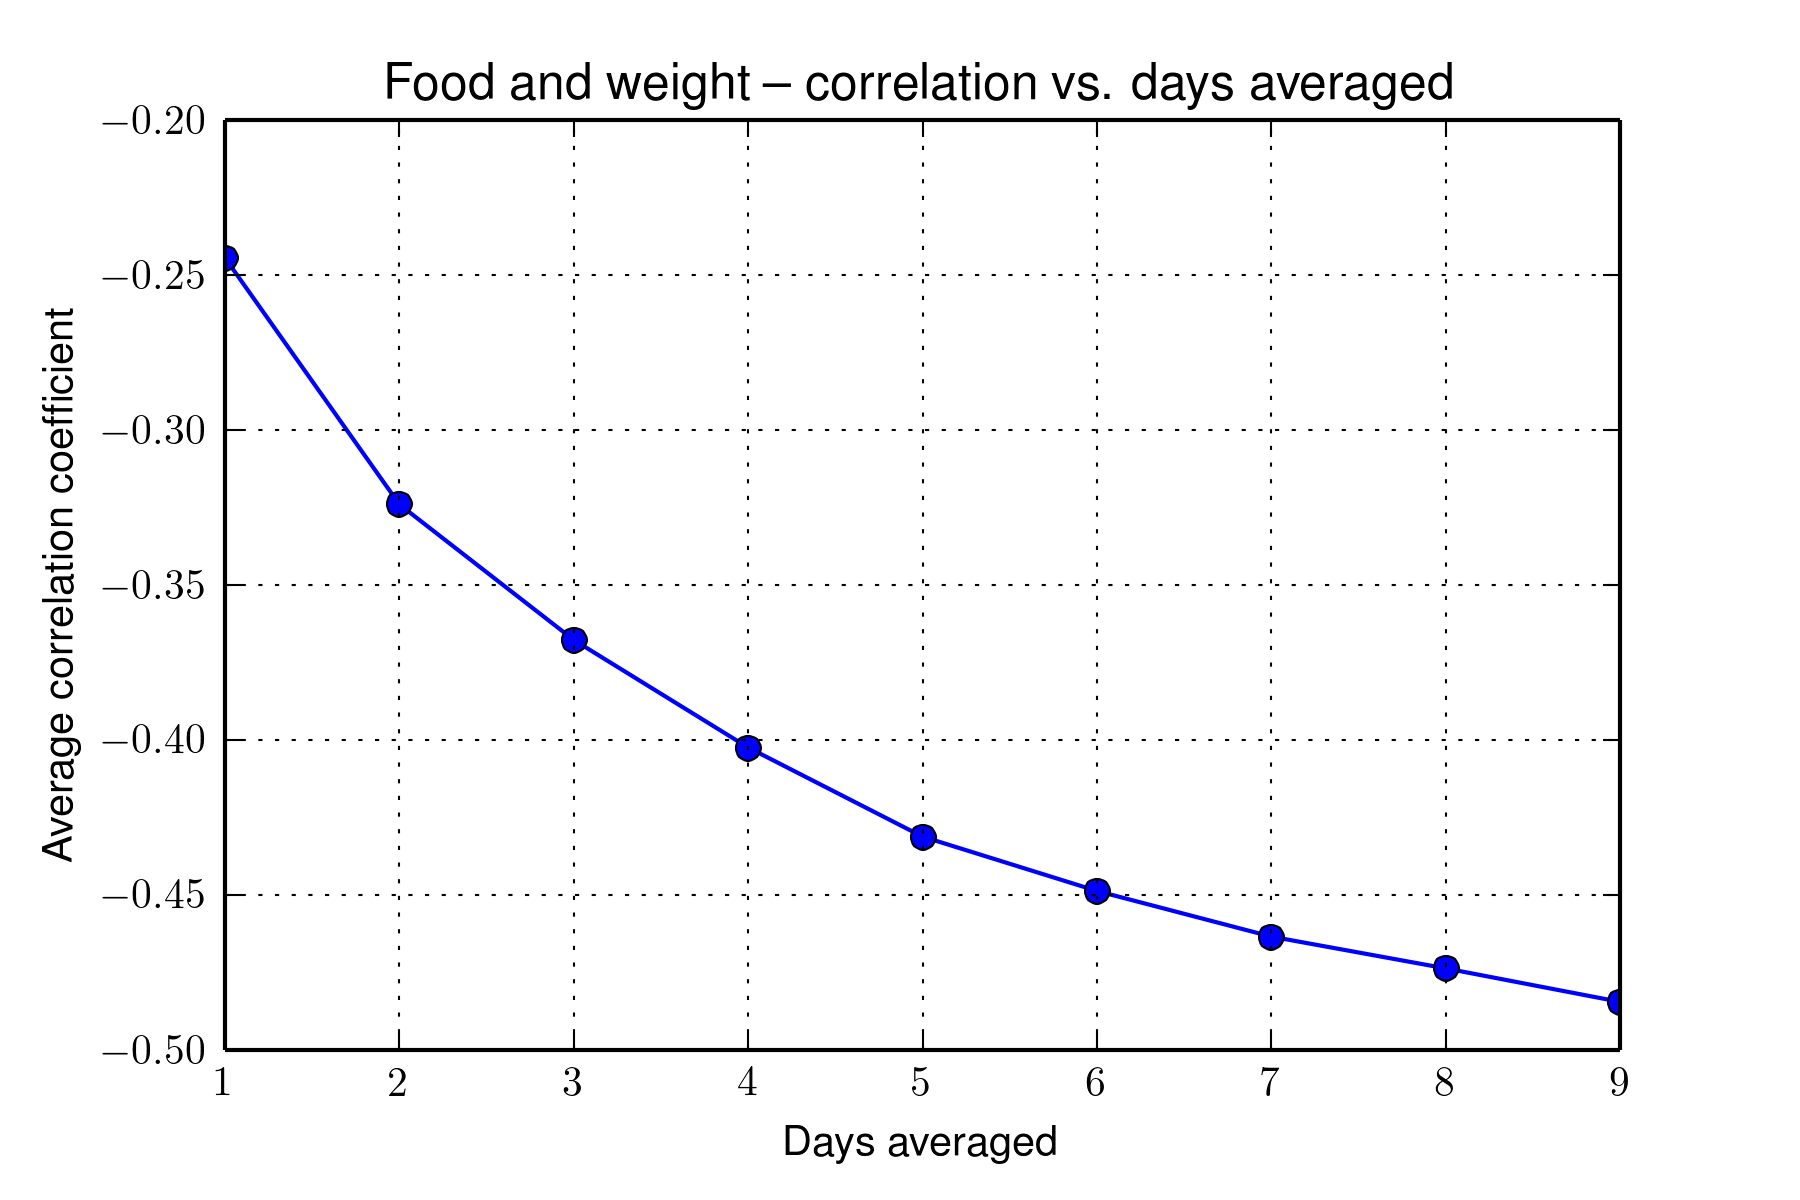
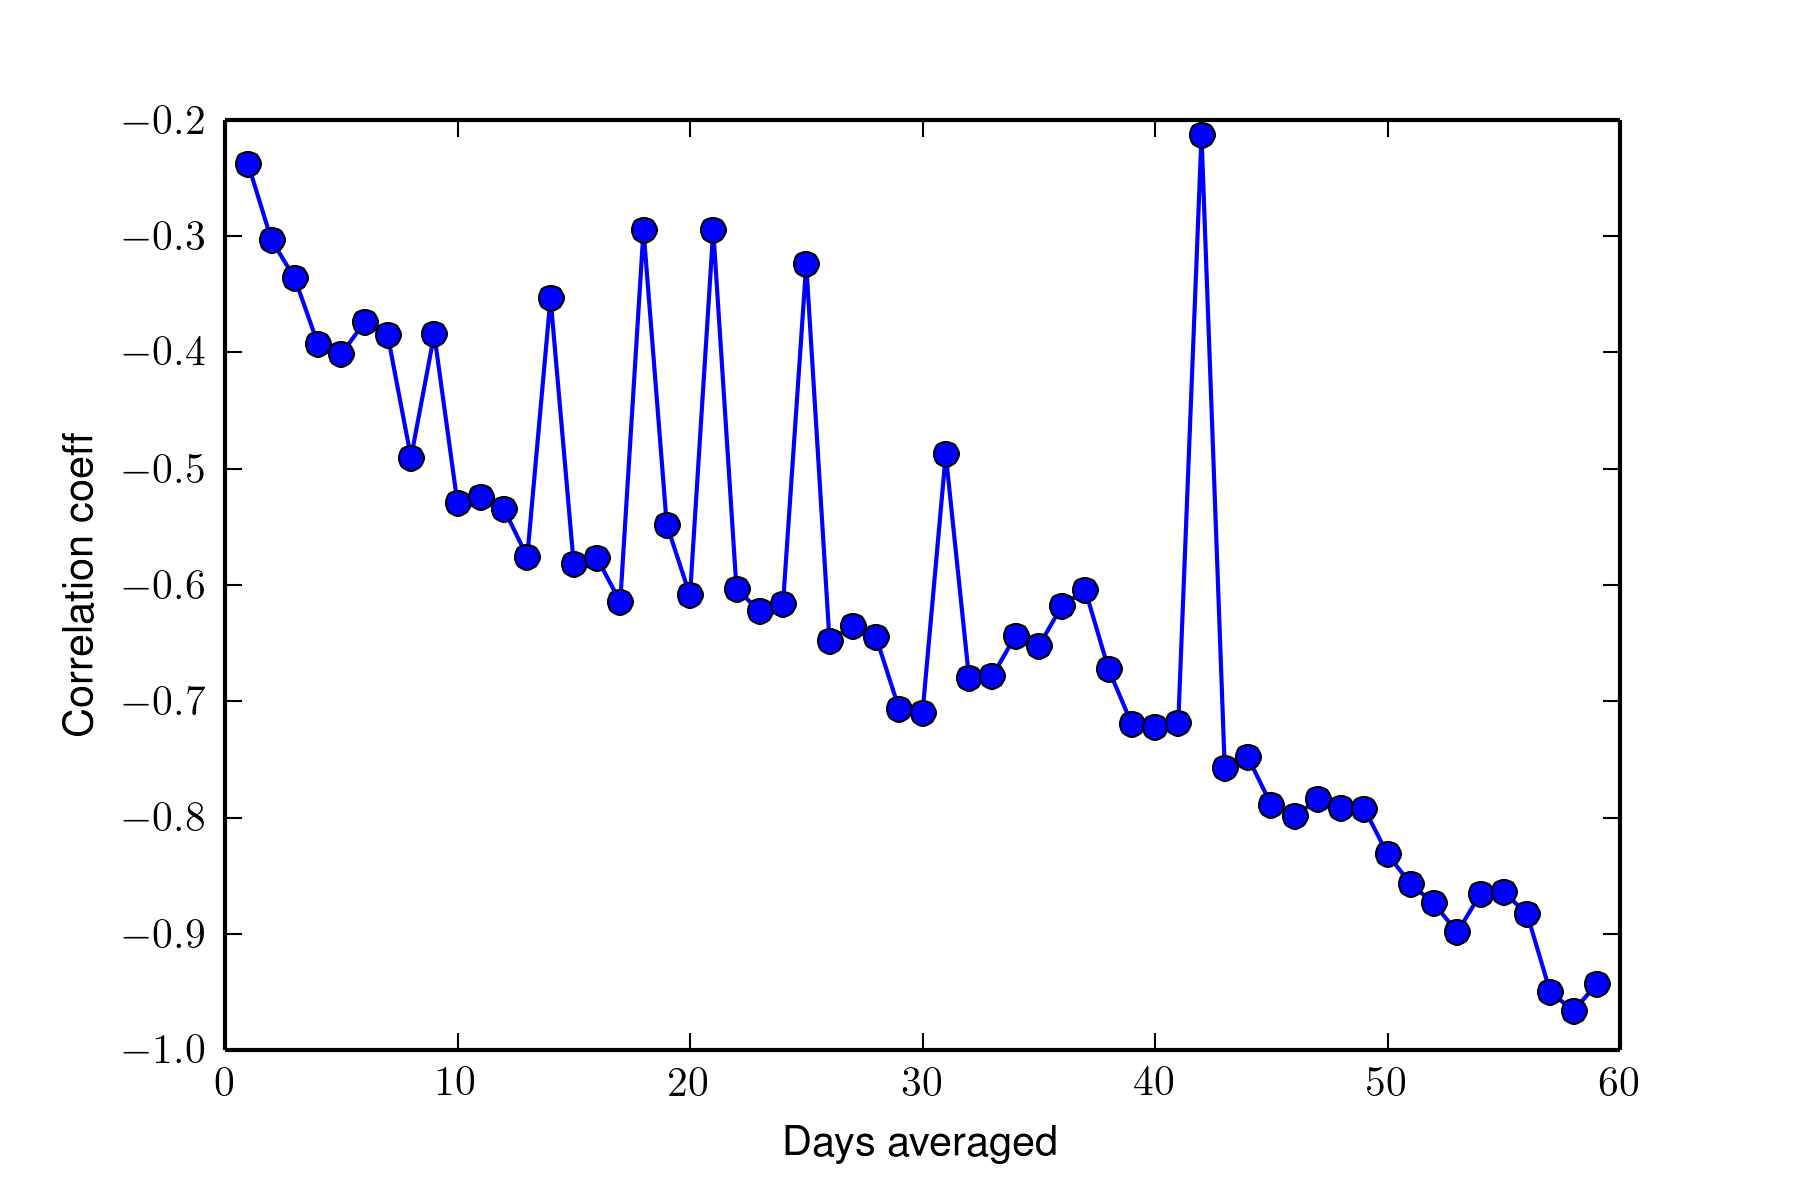
Drawnow

diff --git a/patrick_weight/pat.py b/patrick_weight/pat.py
@@ -1,13 +1,22 @@
 from __future__ import division
 from pylab import *
 from scipy.io import loadmat
+import vimpdb as pdb
 
 def find_rho(x, y):
     rho = cov(x, y) / (std(x) * std(y))
     return rho[0,1]
 def runningMeanFast(x, N):
+    # running means
     y = np.convolve(x, np.ones((N,))/N)[(N-1):]
     y = y[:len(y)-N]
+
+    # discrete means
+    y = zeros(10*len(x)/N) * nan
+    for i in arange(0, x.shape[0]/N):
+        y[i] = mean(x[i*N:i*N+N])
+    y = y[~isnan(y)]
+
     return y
 
 # load the data
@@ -27,7 +36,7 @@ mean_rho = []
 weight_unavg = weight.copy()
 
 # find it over a range of averages
-for MEAN_N in arange(1,14):
+for MEAN_N in arange(1,60):
     # averaging weight and food based on MEAN_N
     weight = runningMeanFast(weight_unavg, MEAN_N)
 
@@ -48,15 +57,8 @@ for MEAN_N in arange(1,14):
     mean_rho += [mean(correlation)]
 
 figure()
-plot(weight)
-plot(weight_unavg)
-show()
-
-figure()
-plot(food[0])
-plot(food_unavg[0])
-show()
-
-figure()
 plot(days_avg, mean_rho, marker='o')
+ylabel('Correlation coeff')
+xlabel('Days averaged')
+savefig('food_and_weight.png', dpi=300)
 show()

diff --git a/drawnow/drawnow.py b/drawnow/drawnow.py
@@ -1,0 +1,47 @@
+
+
+from __future__ import division
+from pylab import *
+import time
+
+def drawnow(draw_fig, wait_secs=1):
+    """
+        draw_fig: (callable, no args by use of python's global scope) your
+        function to draw the figure. it should include the figure() call --
+        just like you'd normally do it.  However, you must leave out the
+        `show()`.
+
+        wait_secs : optional, how many seconds to wait. note that if this is 0
+        and your computation is fast, you don't really see the plot update.
+
+        does not work in ipy-qt. only works in the ipython shell.
+    """
+    close()
+    draw_fig()
+    draw()
+    time.sleep(wait_secs)
+
+def drawnow_init():
+    ion()
+
+def draw_fig():
+    figure()
+    imshow(z, interpolation='nearest')
+    #show()
+
+#def example():
+    """
+        must have the variables you're viewing be global: won't work with local
+        vars.
+    """
+#N = 16
+#x = linspace(-1, 1, num=N)
+#x, y = meshgrid(x, x)
+#z = x**2 + y**2
+
+
+#drawnow_init()
+#for i in arange(2*N):
+    #z.flat[i] = 0
+    #drawnow(draw_fig)
+

diff --git a/drawnow/drawnow_realtest.py b/drawnow/drawnow_realtest.py
@@ -1,0 +1,22 @@
+
+from __future__ import division
+from pylab import *
+from drawnow import drawnow, drawnow_init
+
+def draw_fig_real():
+    figure()
+    imshow(z, interpolation='nearest')
+    colorbar()
+
+N = 16
+x = arange(N) #((N,N))
+x, y = meshgrid(x, x)
+z = x**2 + y**3
+z = ones((N,N))
+
+drawnow_init()
+for i in arange(N):
+    z.flat[i] = 0
+    drawnow(draw_fig_real)
+
+

diff --git a/drawnow/readme.md b/drawnow/readme.md
@@ -1,0 +1,16 @@
+
+### `drawnow` for matplotlib
+
+Usage:
+    
+    `drawnow_init()`
+    x = zeros((N,N))
+
+    def function_to_draw_figure():
+        figure()
+        imshow(x) # python's global scope
+        #show()   # don't call show()!
+
+    for i in arange(x):
+        x.flat[i] = 1
+        drawnow(function_to_draw_figure)
